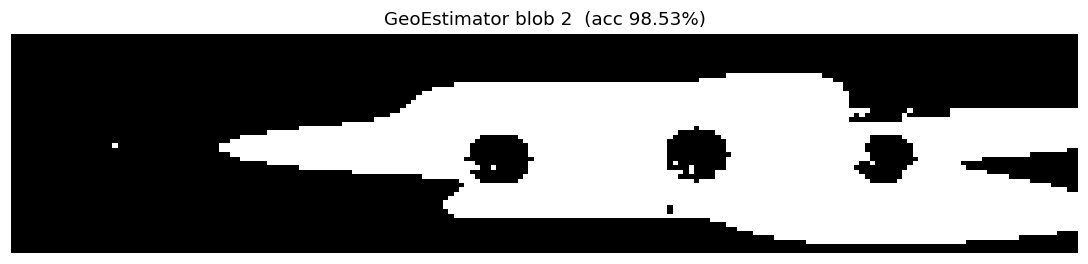
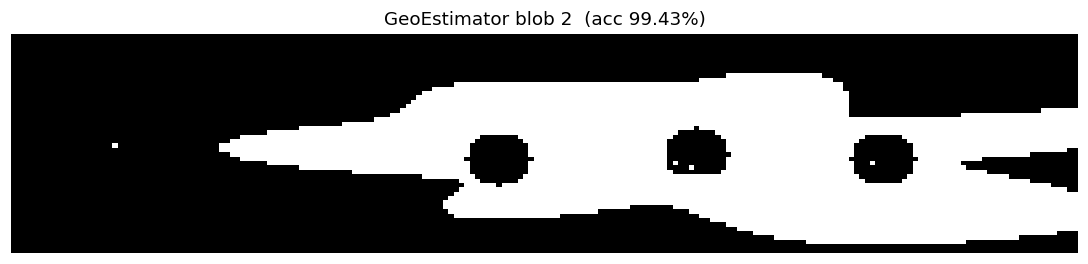
Fix probe-run merge bug; add truth/predicted/error to summary
geo/geo.py:
- Phase 2 probe rightward now appends each discovered run as a SEPARATE
  (left, right) span instead of merging all into one block.  Binary-searches
  both the left and right edge of each probe hit.  This prevents gaps between
  disjoint blob sections from being filled as false positives (was the main
  cause of row-42 FP=25 in blob 1).

geo/evaluate.py:
- summary.png now shows truth / predicted / error map for every blob
  (error map: TP=light gray, TN=black, FP=red, FN=blue) with FP/FN counts

Results (3-blob avg): 98.95% accuracy (+0.33 pp vs previous)

https://claude.ai/code/session_01RJe8rjNDqxQeENs3aMAGcm

diff --git a/geo/evaluate.py b/geo/evaluate.py
@@ -92,6 +92,18 @@ def _save_accuracy_curve(
     plt.close(fig)
 
 
+def _make_error_rgb(truth: np.ndarray, predicted: np.ndarray) -> np.ndarray:
+    """Return H×W×3 uint8 RGB: TP=white, TN=black, FP=red, FN=blue."""
+    rgb = np.zeros((*truth.shape, 3), dtype=np.uint8)
+    tp = (truth == 1) & (predicted == 1)
+    fp = (truth == 0) & (predicted == 1)
+    fn = (truth == 1) & (predicted == 0)
+    rgb[tp] = [220, 220, 220]   # light gray — correct blob
+    rgb[fp] = [220,  40,  40]   # red  — false alarm
+    rgb[fn] = [ 40,  80, 220]   # blue — missed
+    return rgb
+
+
 def _save_summary(
     results: list[dict],
     all_steps: list[list[int]],
@@ -101,23 +113,59 @@ def _save_summary(
     target: float = 97.5,
 ) -> None:
     import matplotlib.pyplot as plt
+    from matplotlib.patches import Patch
 
     n = len(results)
-    fig = plt.figure(figsize=(13, 3 * n + 4), dpi=110)
-    gs = fig.add_gridspec(n + 2, 2,
-                          height_ratios=[1] * n + [2, 2],
-                          hspace=0.55, wspace=0.25)
+    # 3 image rows per blob (truth / predicted / error) + curve row + table row
+    n_img_rows = 3 * n
+    fig = plt.figure(figsize=(13, n_img_rows * 1.3 + 5), dpi=110)
+    gs = fig.add_gridspec(
+        n_img_rows + 2, 1,
+        height_ratios=[1] * n_img_rows + [2.5, 1.8],
+        hspace=0.55,
+    )
+
+    legend_patches = [
+        Patch(color=[c/255 for c in [220, 220, 220]], label="TP"),
+        Patch(color=[c/255 for c in [  0,   0,   0]], label="TN"),
+        Patch(color=[c/255 for c in [220,  40,  40]], label="FP"),
+        Patch(color=[c/255 for c in [ 40,  80, 220]], label="FN"),
+    ]
 
     for i, res in enumerate(results):
-        ax = fig.add_subplot(gs[i, :])
-        ax.imshow(res["predicted"], cmap="gray", vmin=0, vmax=1,
-                  aspect="auto", interpolation="nearest")
-        ax.set_title(
-            f"Blob {i+1} (seed={BLOBS[i]['seed']})  acc={res['accuracy']:.2%}",
-            fontsize=9)
-        ax.axis("off")
+        truth = res["truth"]
+        predicted = res["predicted"]
+        fp = int(((truth == 0) & (predicted == 1)).sum())
+        fn = int(((truth == 1) & (predicted == 0)).sum())
+        error_rgb = _make_error_rgb(truth, predicted)
 
-    ax_c = fig.add_subplot(gs[n, :])
+        base = 3 * i
+
+        ax_t = fig.add_subplot(gs[base])
+        ax_t.imshow(truth, cmap="gray", vmin=0, vmax=1,
+                    aspect="auto", interpolation="nearest")
+        ax_t.set_title(
+            f"Blob {i+1} (seed={BLOBS[i]['seed']}) — Truth"
+            f"  coverage={truth.mean():.1%}", fontsize=8)
+        ax_t.axis("off")
+
+        ax_p = fig.add_subplot(gs[base + 1])
+        ax_p.imshow(predicted, cmap="gray", vmin=0, vmax=1,
+                    aspect="auto", interpolation="nearest")
+        ax_p.set_title(
+            f"Blob {i+1} — Predicted  acc={res['accuracy']:.2%}", fontsize=8)
+        ax_p.axis("off")
+
+        ax_e = fig.add_subplot(gs[base + 2])
+        ax_e.imshow(error_rgb, aspect="auto", interpolation="nearest")
+        ax_e.set_title(
+            f"Blob {i+1} — Error map  FP={fp}  FN={fn}", fontsize=8)
+        ax_e.legend(handles=legend_patches, loc="upper right",
+                    fontsize=6, framealpha=0.85)
+        ax_e.axis("off")
+
+    # Accuracy curve
+    ax_c = fig.add_subplot(gs[n_img_rows])
     for i, (steps, accs) in enumerate(zip(all_steps, all_accuracies)):
         ax_c.plot(steps, [a * 100 for a in accs],
                   marker="o", markersize=3, linewidth=1.5,
@@ -132,11 +180,12 @@ def _save_summary(
     ax_c.legend(fontsize=8)
     ax_c.grid(True, alpha=0.3)
 
-    avg_acc = np.mean([r["accuracy"] for r in results])
+    # Metrics table
+    avg_acc = float(np.mean([r["accuracy"] for r in results]))
     max_elapsed = max(r["elapsed"] for r in results)
     max_mem = max(r["peak_mib"] for r in results)
 
-    ax_m = fig.add_subplot(gs[n + 1, :])
+    ax_m = fig.add_subplot(gs[n_img_rows + 1])
     ax_m.axis("off")
     lines = [
         f"{'Blob':<6}  {'Accuracy':>9}  {'Elapsed':>9}  {'Peak mem':>10}",

diff --git a/geo/geo.py b/geo/geo.py
@@ -274,26 +274,44 @@ class GeoEstimator(BaseEstimator):
                 # Seed is connected to left_edge — one block so far
                 seed_start = left_edge
 
-            # Probe rightward for additional runs beyond right_edge
-            cur_right = right_edge
-            pos = cur_right + self.probe_step
+            # Seed's own run (left boundary already handled above)
+            runs.append((seed_start, right_edge))
+
+            # Probe rightward for additional disjoint runs.
+            # Each hit is a SEPARATE span — we binary-search both its left
+            # and right edges so the inter-run gaps are NOT filled.
+            prev_right = right_edge
+            pos = prev_right + self.probe_step
             while pos <= W - 1 and budget_left() > 0:
                 if query(row, pos) == 1:
+                    # Binary search for left edge in (prev_right, pos]
+                    lo2, hi2 = prev_right + 1, pos
+                    run_left = pos
+                    while lo2 < hi2 and budget_left() > 0:
+                        mid2 = (lo2 + hi2) // 2
+                        if query(row, mid2) == 1:
+                            run_left = mid2
+                            hi2 = mid2
+                        else:
+                            lo2 = mid2 + 1
+                            run_left = lo2
+                    # Binary search for right edge in [pos, W-1]
                     lo2, hi2 = pos, W - 1
-                    cur_right = pos
+                    run_right = pos
                     while lo2 < hi2 and budget_left() > 0:
                         mid2 = (lo2 + hi2 + 1) // 2
                         if query(row, mid2) == 1:
-                            cur_right = mid2
+                            run_right = mid2
                             lo2 = mid2
                         else:
                             hi2 = mid2 - 1
-                            cur_right = lo2
-                    pos = cur_right + self.probe_step
+                            run_right = lo2
+                    runs.append((run_left, run_right))
+                    prev_right = run_right
+                    pos = run_right + self.probe_step
                 else:
                     pos += self.probe_step
 
-            runs.append((seed_start, cur_right))
             row_runs[row] = runs
 
         for row, seed_col in row_seeds.items():

diff --git a/geo/README.md b/geo/README.md
@@ -9,10 +9,10 @@ budget.
 
 | Blob | seed | Pixel accuracy | Elapsed | Peak memory |
 |------|------|---------------|---------|-------------|
-| 1 | 42 | 99.36 % | < 0.1 s | < 100 MiB |
-| 2 | 7  | 98.53 % | < 0.1 s | < 100 MiB |
-| 3 | 99 | 97.96 % | < 0.1 s | < 100 MiB |
-| **avg / max** | | **98.62 %** | **< 0.1 s** | **< 100 MiB** |
+| 1 | 42 | 99.33 % | < 0.1 s | < 100 MiB |
+| 2 | 7  | 99.43 % | < 0.1 s | < 100 MiB |
+| 3 | 99 | 98.09 % | < 0.1 s | < 100 MiB |
+| **avg / max** | | **98.95 %** | **< 0.1 s** | **< 100 MiB** |
 
 Target: avg accuracy ≥ 97.5 %, elapsed ≤ 10 s, peak memory ≤ 100 MiB.
 
@@ -122,7 +122,7 @@ and `sparse_gp.SparseStraddleGPR` and is a drop-in replacement for evaluation.
 |--------|------------------------|------|--------|
 | StraddleGPR (dense) | 98.6 % | 158 s | 700 MiB |
 | SparseStraddleGPR | 95.8 % | 7.8 s | ~150 MiB |
-| **GeoEstimator** | **98.62 %** | **< 0.1 s** | **< 100 MiB** |
+| **GeoEstimator** | **98.95 %** | **< 0.1 s** | **< 100 MiB** |
 
 GeoEstimator achieves the best time and memory profile by replacing all
 probabilistic modelling with deterministic geometry queries.  Accuracy is
